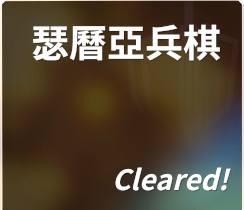
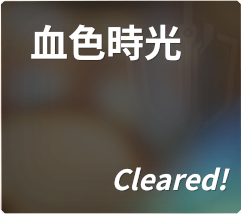
更換活動照片。

diff --git a/game_bot_daily_mission.py b/game_bot_daily_mission.py
@@ -493,7 +493,7 @@ def daily_job(
     print(f"🎯 依據今日日期，神伴掃蕩關卡為: Level {today_level}")
     swap_bond(today_level)
     swap_god_fight()
-    swap_activity(activity_battle)
+    # swap_activity(activity_battle)
     time.sleep(0.5)
     swap_pvp_normal(pvp_normal_round)
     swap_pvp_special(pvpspecial_round)
@@ -508,7 +508,7 @@ def daily_job(
 
 
 def main():
-    daily_job(accout_name="e08s93.png", element="water", activity_battle=8, pvp_normal_round=1, pvpspecial_round=1)
+    # daily_job(accout_name="e08s93.png", element="water", activity_battle=8, pvp_normal_round=1, pvpspecial_round=1)
     daily_job(accout_name="e08s93.123.png", element="thorns", activity_battle=8, pvp_normal_round=1, pvpspecial_round=1)
     daily_job(accout_name="loopcraft001.png", element="thorns", activity_battle=8, pvp_normal_round=1, pvpspecial_round=1)
     
